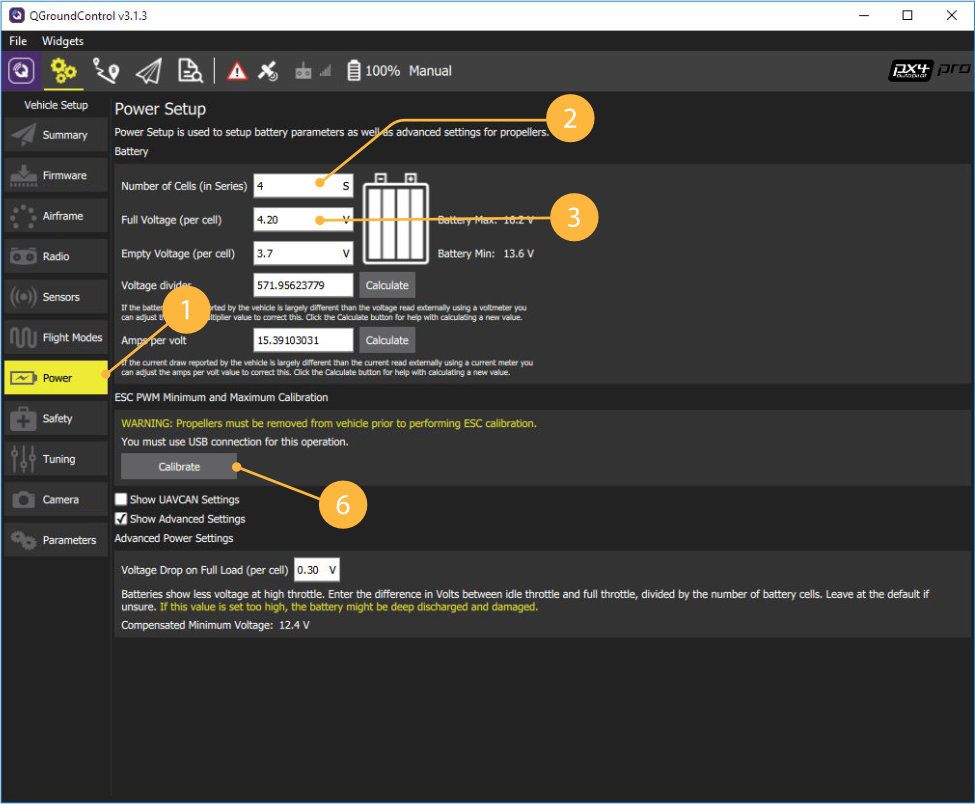
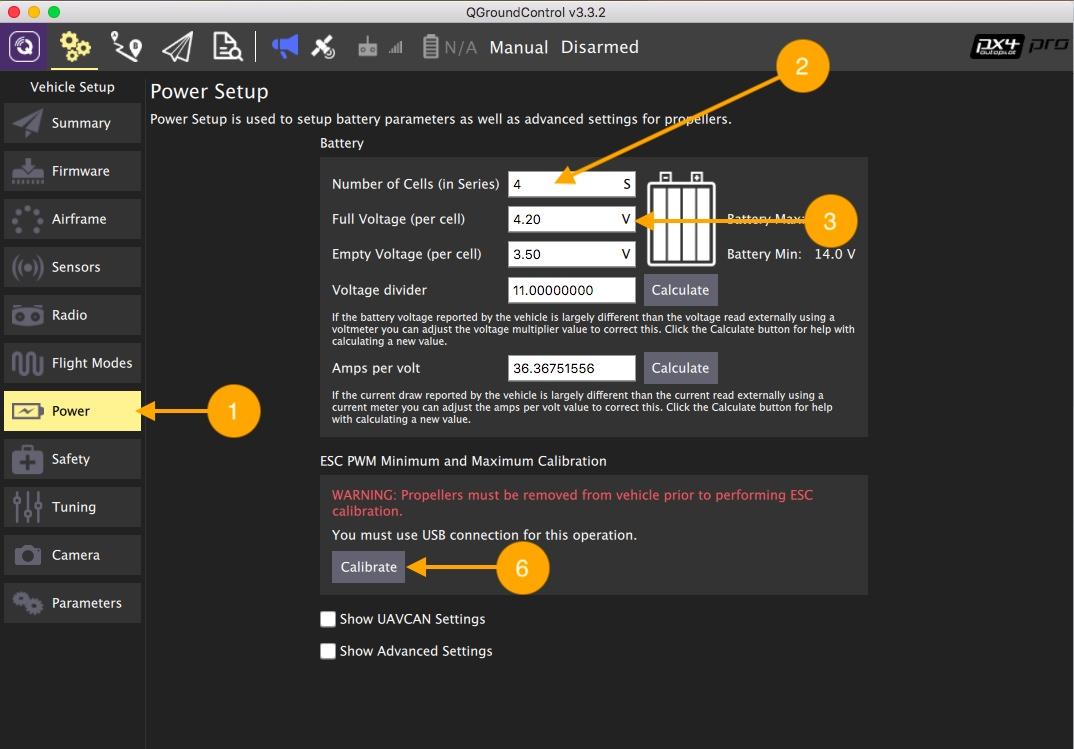
docs: edit "setup" article (#145)
* Added a new parameter setup

Empty Voltage (per cell) - 3.50V.

* Added a new parameter setup

Empty Voltage (per cell) - 3.50V.

* Deleted outdated screenshot

* Added updated screenshot

* deleted wrong screenshot

* Added updated screenshot

Changed region(s): [[0.0, 0.0, 1.0, 1.0]]

diff --git a/docs/ru/setup.md b/docs/ru/setup.md
@@ -182,7 +182,7 @@
 
 1. Заходим в меню Power.
 2. Устанавливаем количество банок Number of cells - 4S.
-3. Устанавливаем параметр Full Voltage (per cell) - 4.20V.
+3. Устанавливаем параметры: Full Voltage (per cell) - 4.20V; Empty Voltage (per cell) - 3.50V.
 
     Чтобы изменения сохранились, необходимо перезагрузить Pixhawk:
 

diff --git a/docs/en/setup.md b/docs/en/setup.md
@@ -180,7 +180,7 @@ To unlock the copter, disable the safety button
 
 1. Go to the Power menu.
 2. Set the Number of cells — 4S.
-3. Set parameter Full Voltage (per cell) - 4.20 V.
+3. Set parameter Full Voltage (per cell) - 4.20 V; Empty Voltage (per cell) - 3.50V.
 
     To save the changes, restart Pihxawk:
 
